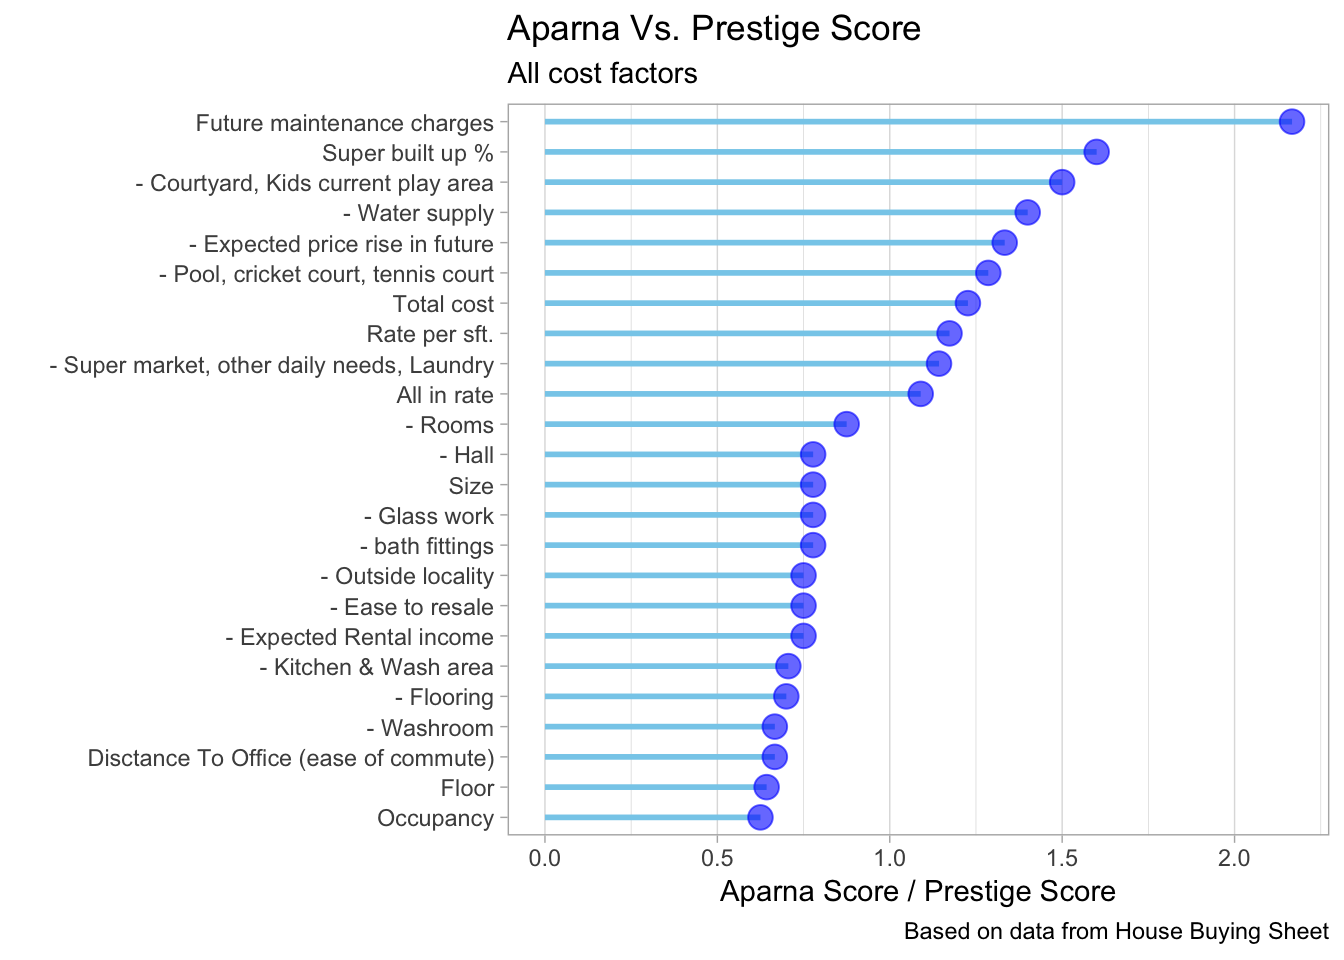
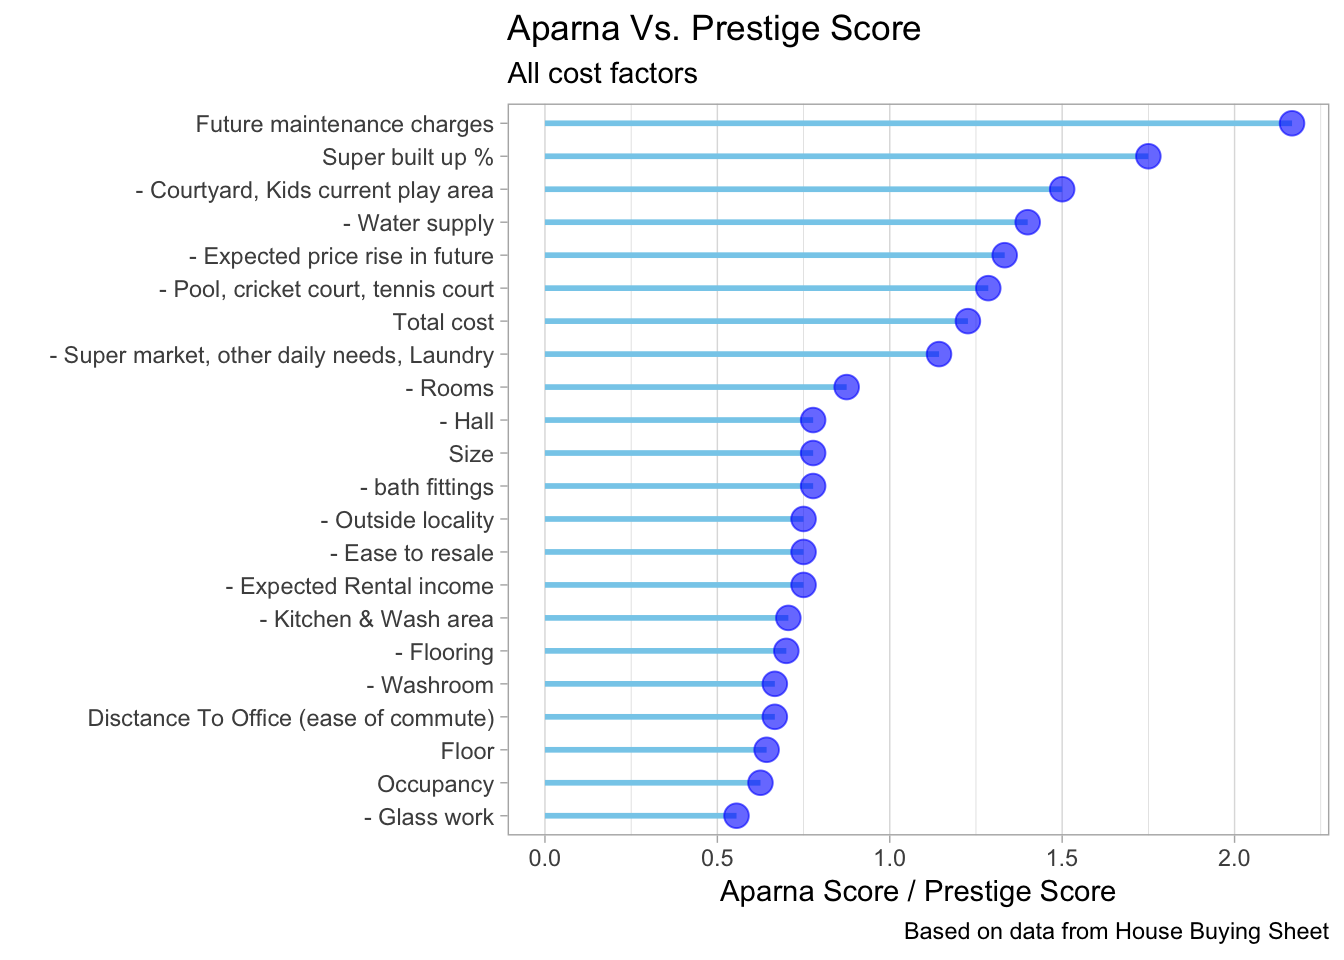
House buying in Hyd

Changed region(s): [[0.4062, 0.125, 0.875, 0.875], [0.0312, 0.125, 0.375, 0.875], [0.9375, 0.0938, 0.9688, 0.1562]]

diff --git a/content/post/2019-04-30-arpit-house-buying.html b/content/post/2019-04-30-arpit-house-buying.html
@@ -48,20 +48,20 @@ library(janitor)
 theme_set(theme_light())</code></pre>
 <pre class="r"><code>df &lt;- read_csv(&quot;~/Downloads/House buying options - Sheet1.csv&quot;)
 df</code></pre>
-<pre><code>## # A tibble: 34 x 20
+<pre><code>## # A tibble: 33 x 20
 ##    `Cost factors` `Aparna Serene … `Prestige Ivy l… `Criteria for I…
 ##    &lt;chr&gt;          &lt;chr&gt;            &lt;chr&gt;            &lt;chr&gt;           
-##  1 Cost factors   &lt;NA&gt;             &lt;NA&gt;             &lt;NA&gt;            
-##  2 Rate per sft.  6,700.00         7,500.00         6,000.00        
-##  3 All in rate    8,025.00         8,575.95         7,000.00        
-##  4 Total cost     1,28,00,000.00   1,49,05,000.00   1,20,00,000.00  
-##  5 Floor          18               4                8               
-##  6 Disctance To … 8.7 KM           4.2 KM           5               
-##  7 Number of par… two              one              &lt;NA&gt;            
-##  8 Future mainte… 5,646.30         8,203.36         5,000.00        
-##  9 Occupancy      End of the year  Ready            Ready           
-## 10 Construction … &lt;NA&gt;             &lt;NA&gt;             &lt;NA&gt;            
-## # … with 24 more rows, and 16 more variables: `Aparna score` &lt;dbl&gt;,
+##  1 Rate per sft.  6,700.00         7,500.00         6,000.00        
+##  2 All in rate    8,025.00         8,575.95         7,000.00        
+##  3 Total cost     1,28,00,000.00   1,49,05,000.00   1,20,00,000.00  
+##  4 Floor          18               4                8               
+##  5 Disctance To … 8.7 KM           4.2 KM           5               
+##  6 Number of par… two              one              &lt;NA&gt;            
+##  7 Future mainte… 5,646.30         8,203.36         5,000.00        
+##  8 Occupancy      End of the year  Ready            Ready           
+##  9 Construction … &lt;NA&gt;             &lt;NA&gt;             &lt;NA&gt;            
+## 10 - Flooring     High             Very high        High            
+## # … with 23 more rows, and 16 more variables: `Aparna score` &lt;dbl&gt;,
 ## #   `Prestige score` &lt;chr&gt;, `Weight/Importance` &lt;chr&gt;, `Final score
 ## #   Aparna` &lt;chr&gt;, `Final score Prestige` &lt;chr&gt;, X10 &lt;lgl&gt;, X11 &lt;lgl&gt;,
 ## #   X12 &lt;lgl&gt;, X13 &lt;lgl&gt;, X14 &lt;lgl&gt;, X15 &lt;lgl&gt;, X16 &lt;lgl&gt;, `Lansum
@@ -133,16 +133,15 @@ df %&gt;%
   gather(key = &quot;prop&quot;, value = &quot;value&quot;, -cost_factors) %&gt;% 
   spread(key = cost_factors, value = value) %&gt;% 
   clean_names()</code></pre>
-<pre><code>## # A tibble: 5 x 25
-##   prop  rate_per_sft all_in_rate total_cost floor disctance_to_of…
-##   &lt;chr&gt;        &lt;dbl&gt;       &lt;dbl&gt;      &lt;dbl&gt; &lt;dbl&gt;            &lt;dbl&gt;
-## 1 apar…         8.8         8.5        9.2   4.5              6   
-## 2 fina…         0.18        0.85       1.84  0.09             0.3 
-## 3 fina…         0.15        0.78       1.5   0.14             0.45
-## 4 pres…         7.5         7.8        7.5   7                9   
-## 5 weig…         0.02        0.1        0.2   0.02             0.05
-## # … with 19 more variables: future_maintenance_charges &lt;dbl&gt;,
-## #   occupancy &lt;dbl&gt;, flooring &lt;dbl&gt;, bath_fittings &lt;dbl&gt;,
+<pre><code>## # A tibble: 5 x 23
+##   prop  total_cost floor disctance_to_of… future_maintena… occupancy
+##   &lt;chr&gt;      &lt;dbl&gt; &lt;dbl&gt;            &lt;dbl&gt;            &lt;dbl&gt;     &lt;dbl&gt;
+## 1 apar…       9.2   4.5              6                7.8       5   
+## 2 fina…       2.3   0.09             0.3              0.78      0.15
+## 3 fina…       1.88  0.14             0.45             0.36      0.24
+## 4 pres…       7.5   7                9                3.6       8   
+## 5 weig…       0.25  0.02             0.05             0.1       0.03
+## # … with 17 more variables: flooring &lt;dbl&gt;, bath_fittings &lt;dbl&gt;,
 ## #   glass_work &lt;dbl&gt;, size &lt;dbl&gt;, super_built_up_percent &lt;dbl&gt;,
 ## #   kitchen_wash_area &lt;dbl&gt;, hall &lt;dbl&gt;, washroom &lt;dbl&gt;, rooms &lt;dbl&gt;,
 ## #   pool_cricket_court_tennis_court &lt;dbl&gt;,
